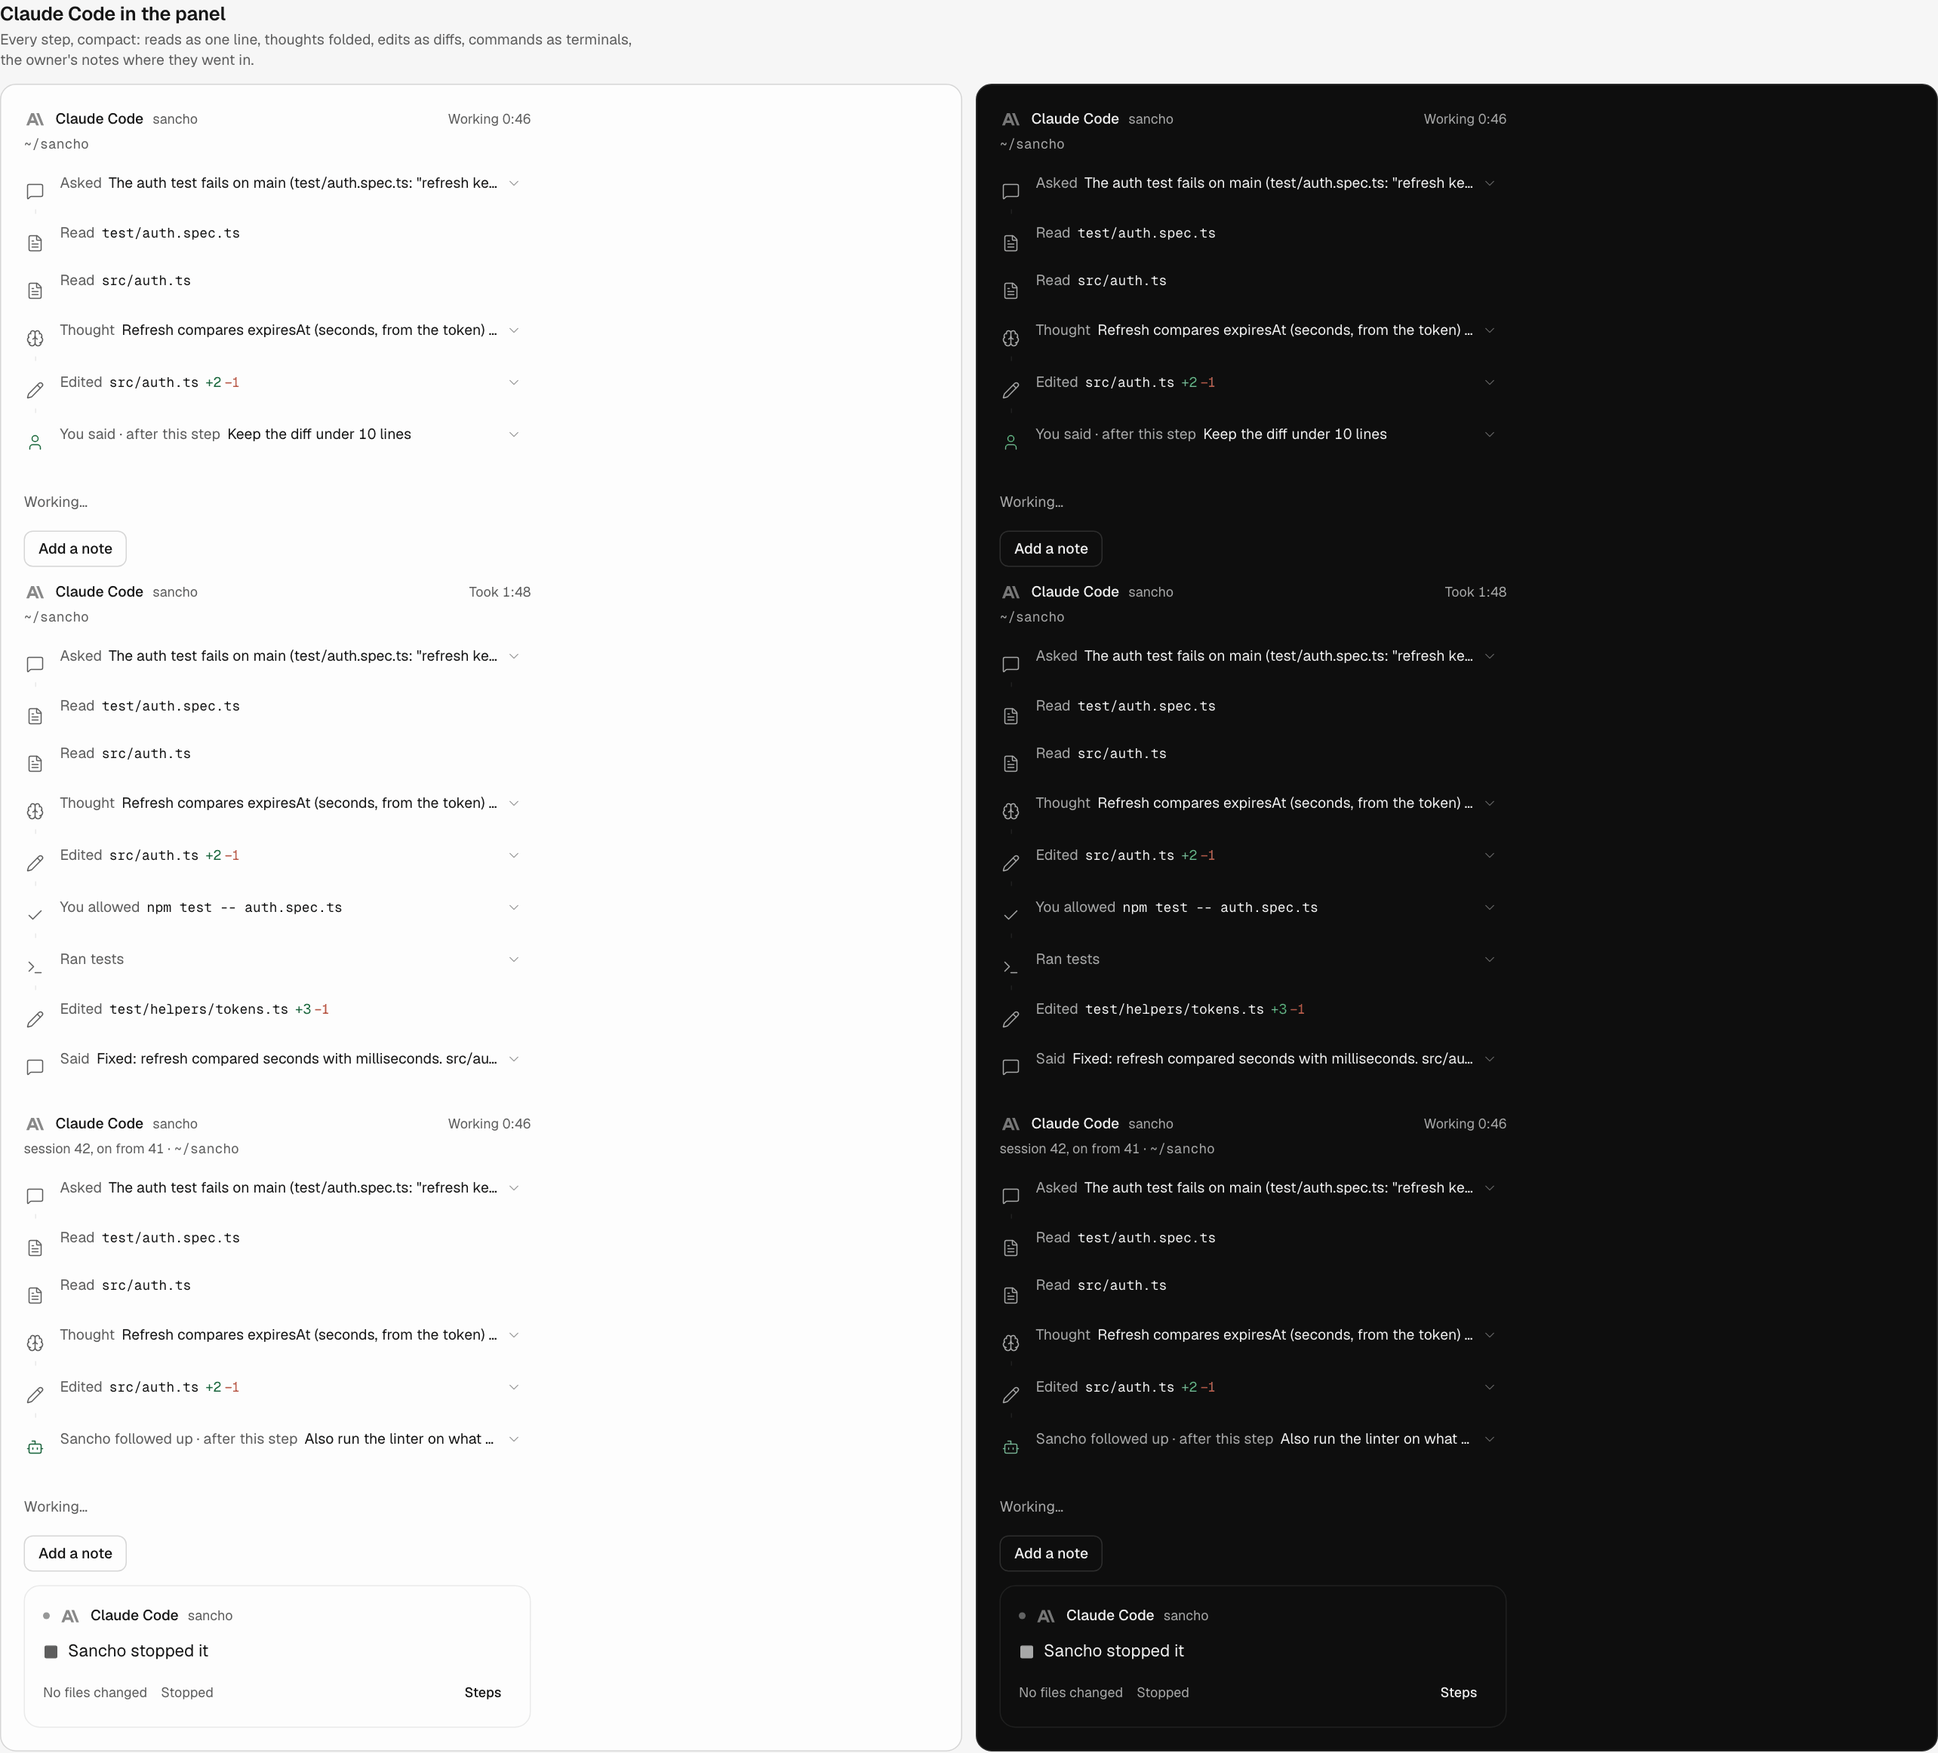
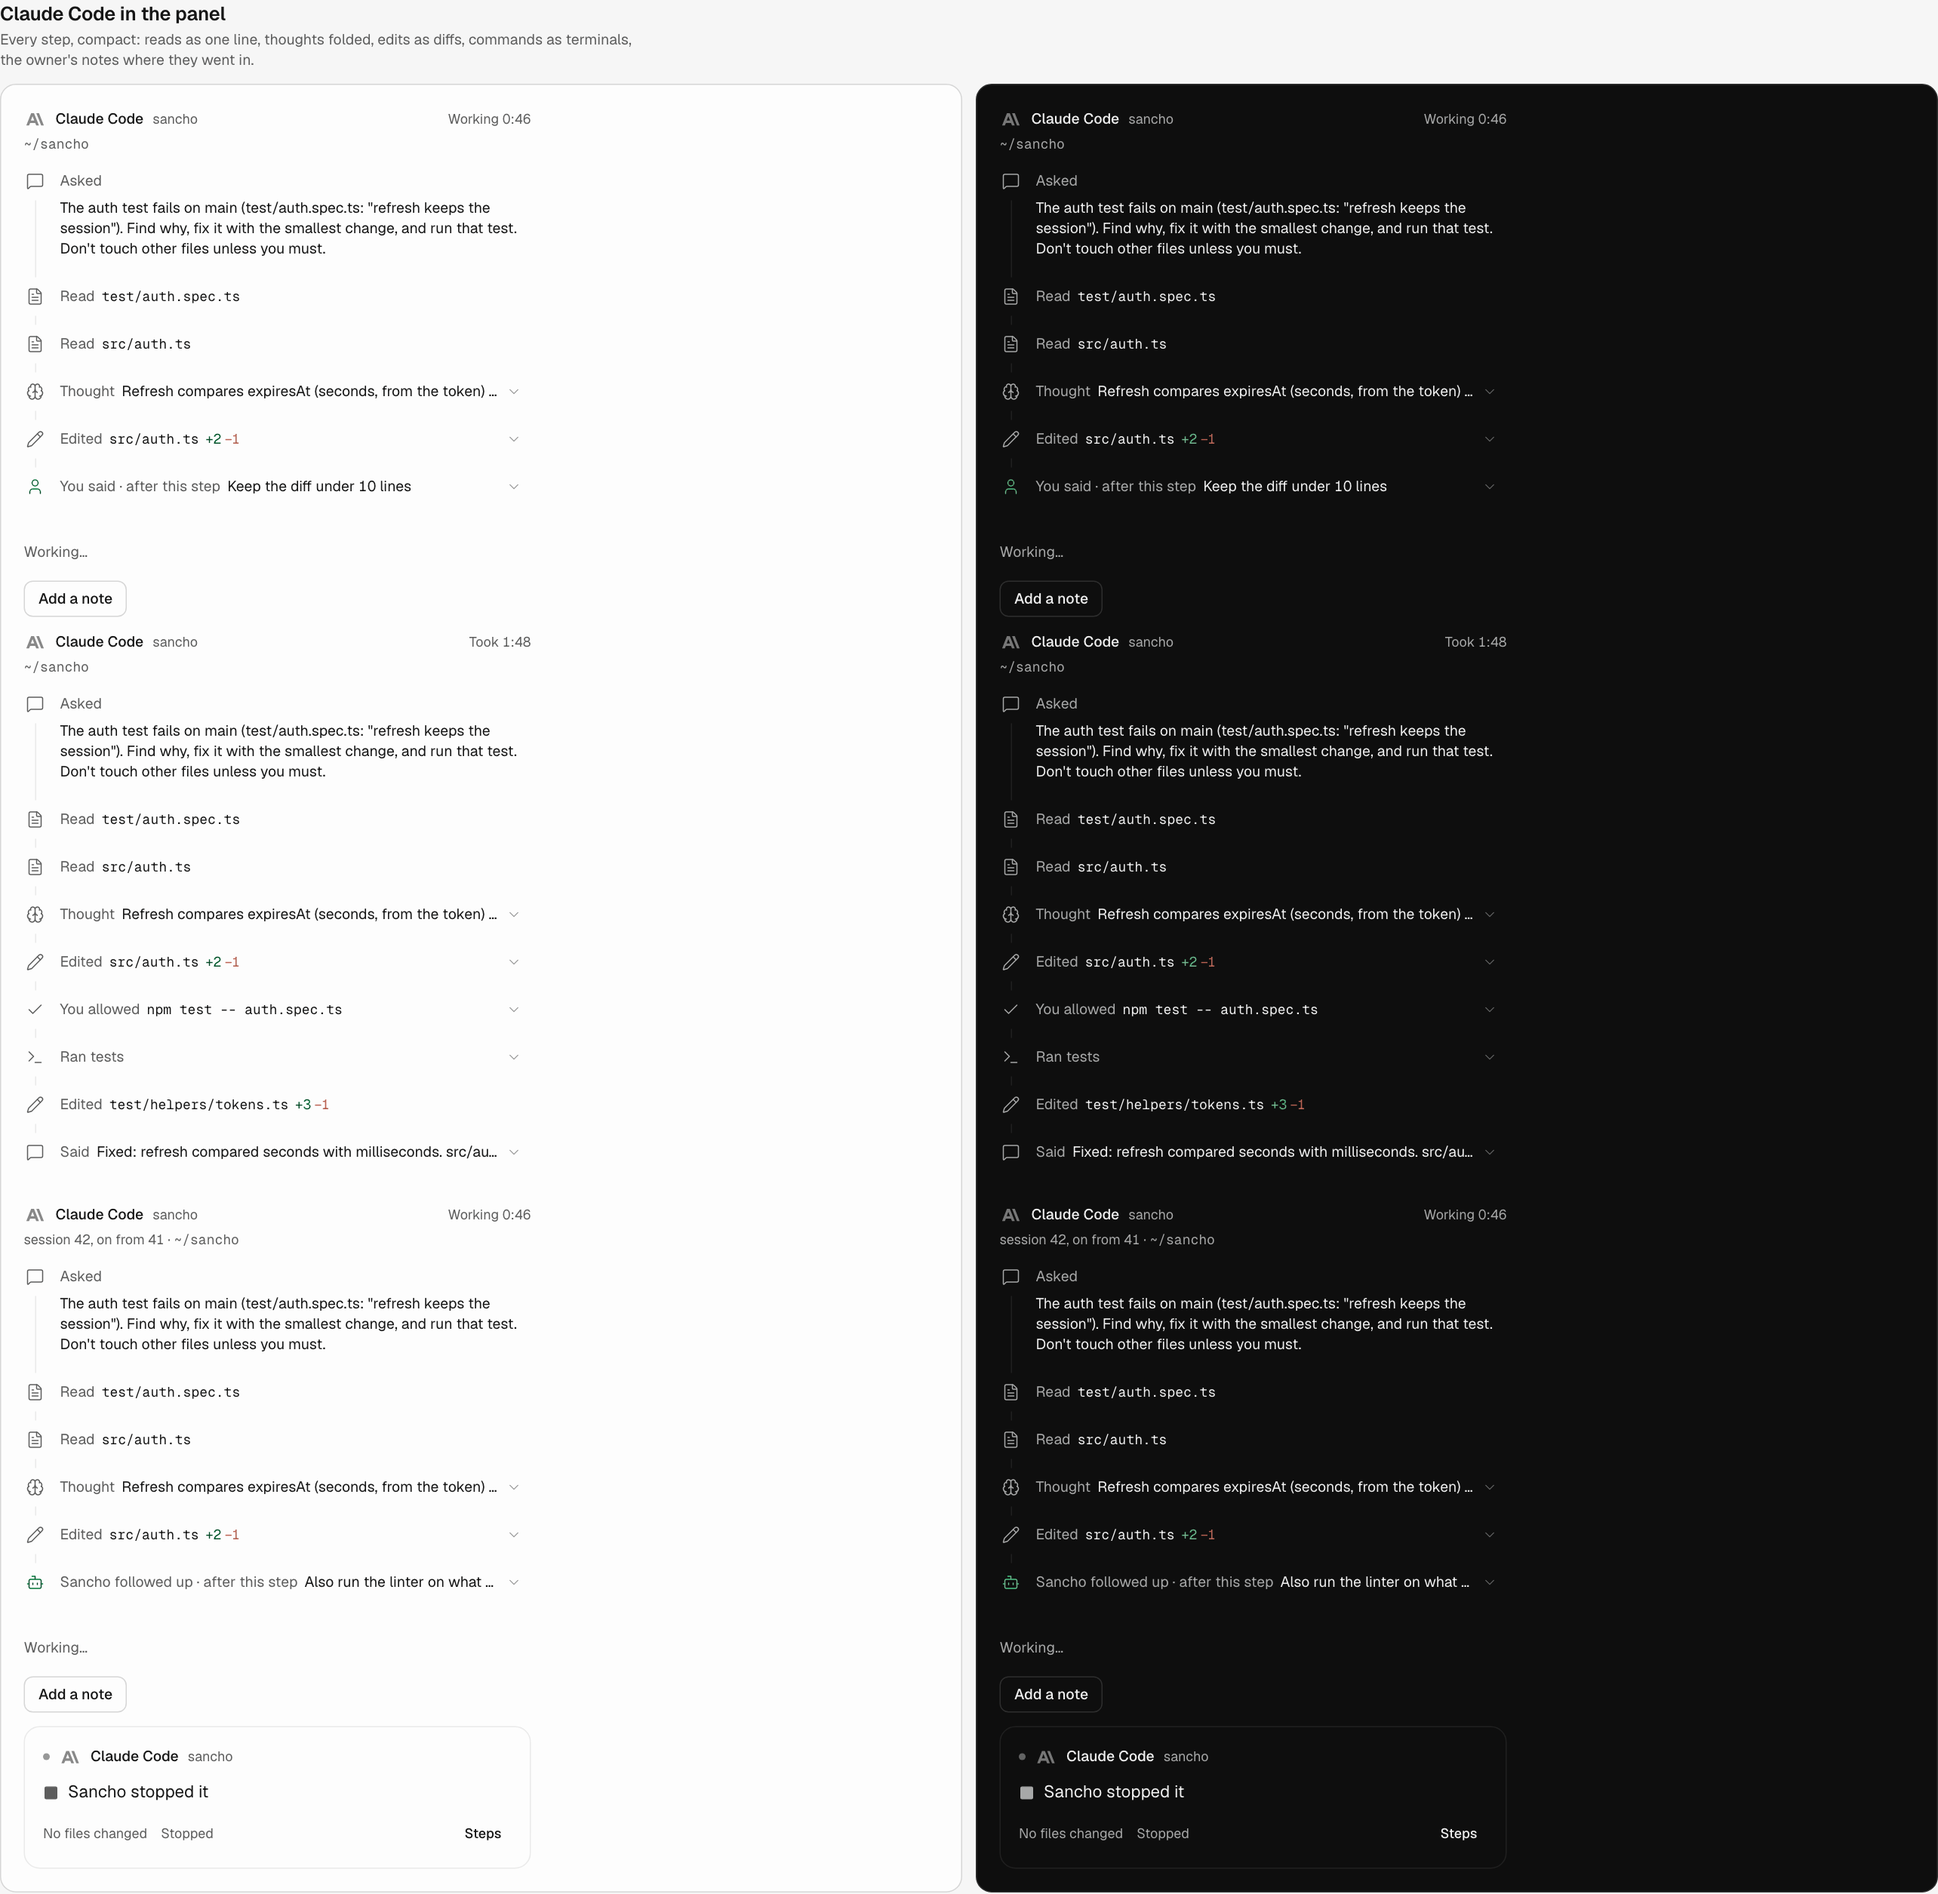
docs: refresh harness UI prototype screenshots
The sheet and panel shots show the realigned icons, the asked step at
three lines with Show all, and the folded-by-default rows; three new
shots show the sheet mid-stream, stopped after scrolling up with Jump
to latest, and a close-up of row alignment. 8-bit netpbm quantization,
every image under 400 KB. Drop with the earlier screenshots commit
before merge.

diff --git a/docs/proto-harness-ui/INDEX.md b/docs/proto-harness-ui/INDEX.md
@@ -26,8 +26,11 @@ de ancho escritorio; `-phone-` marcos de 390px (ancho teléfono).
 | `harness-states-*` | Estados: working, waiting, done, stopped, interrupted y **failed** (nuevo) |
 | `harness-headlines-*` | **Nuevo**: la línea de la tarjeta con un run largo con `cd … &&` (prefijo fuera, truncado por el medio) y con una lectura |
 | `harness-asks-*` | **Nuevo**: 1 ask de comando; ask de edición con diff largo (ventana acotada + "Show all"); 3 asks (la más vieja entera, el resto plegado en una línea; sin approve-all) |
-| `harness-panel-*` | Los pasos plegados a una línea cada uno; filas-botón que abren el detalle |
-| `harness-sheet-*` | **Nuevo**: la hoja plegada por defecto; con un run y un diff abiertos; acotada y siguiendo lo último |
+| `harness-panel-*` | Los pasos plegados a una línea cada uno; filas-botón que abren el detalle; «asked» a 3 líneas con «Show all» |
+| `harness-sheet-*` | **Nuevo**: la hoja plegada por defecto; con un run y un diff abiertos; acotada y siguiendo lo último (con «Simulate streaming») |
+| `harness-sheet-streaming-*` | **Nuevo**: la hoja a media transmisión, pegada al último paso mientras llegan más |
+| `harness-sheet-scrolled-up-*` | **Nuevo**: tras subir, deja de seguir y aparece «Jump to latest» |
+| `harness-sheet-row-closeup` | **Nuevo**: recorte ampliado de filas, para ver el icono centrado sobre la primera línea |
 
 ## Qué cambia (resumen)
 
@@ -36,9 +39,14 @@ de ancho escritorio; `-phone-` marcos de 390px (ancho teléfono).
    ls (`Listing …`), tests (`Running tests`), git (`Checking git`); pasado una vez corrido
    (`Ran tests`, `Searched for`). Truncado por el medio, nunca al final.
 2. **Hoja de pasos plegada**: cada paso es una fila de una línea (botón real,
-   `aria-expanded`, ≥44px en táctil) que abre el comando crudo, el diff o el texto entero;
-   «asked»/«said»/«thought» a 3 líneas con «Show all». La hoja abre en el último paso y lo
-   sigue; al subir aparece el botón de volver abajo del chat.
+   `aria-expanded`, ≥44px en táctil por un halo invisible, sin mover el texto) que abre el
+   comando crudo, el diff o el texto entero; «asked» a 3 líneas con «Show all» (la medida,
+   no una cuenta de caracteres, decide si hay corte); «said»/«thought» pliegan a una línea.
+   La expansión se guarda por paso con una clave absoluta (`stepKey` + `dropped`): no se
+   mueve cuando el daemon descarta pasos viejos y un paso nuevo jamás llega desplegado.
+   La hoja abre en el último paso y lo sigue (el stick-to-bottom del chat); al subir deja
+   de seguir y aparece «Jump to latest»; sin scroll suave con `prefers-reduced-motion`.
+   El icono de cada fila queda centrado sobre la primera línea del texto.
 3. **Asks de una en una**: la más vieja entera; comando o diff largos en ventana acotada
    con «Show all» (hoja a pantalla completa); el resto plegado («2 more waiting · …»).
    Sin approve-all. Botones con verbo propio («Run / Don't run», «Allow / Don't change»).
